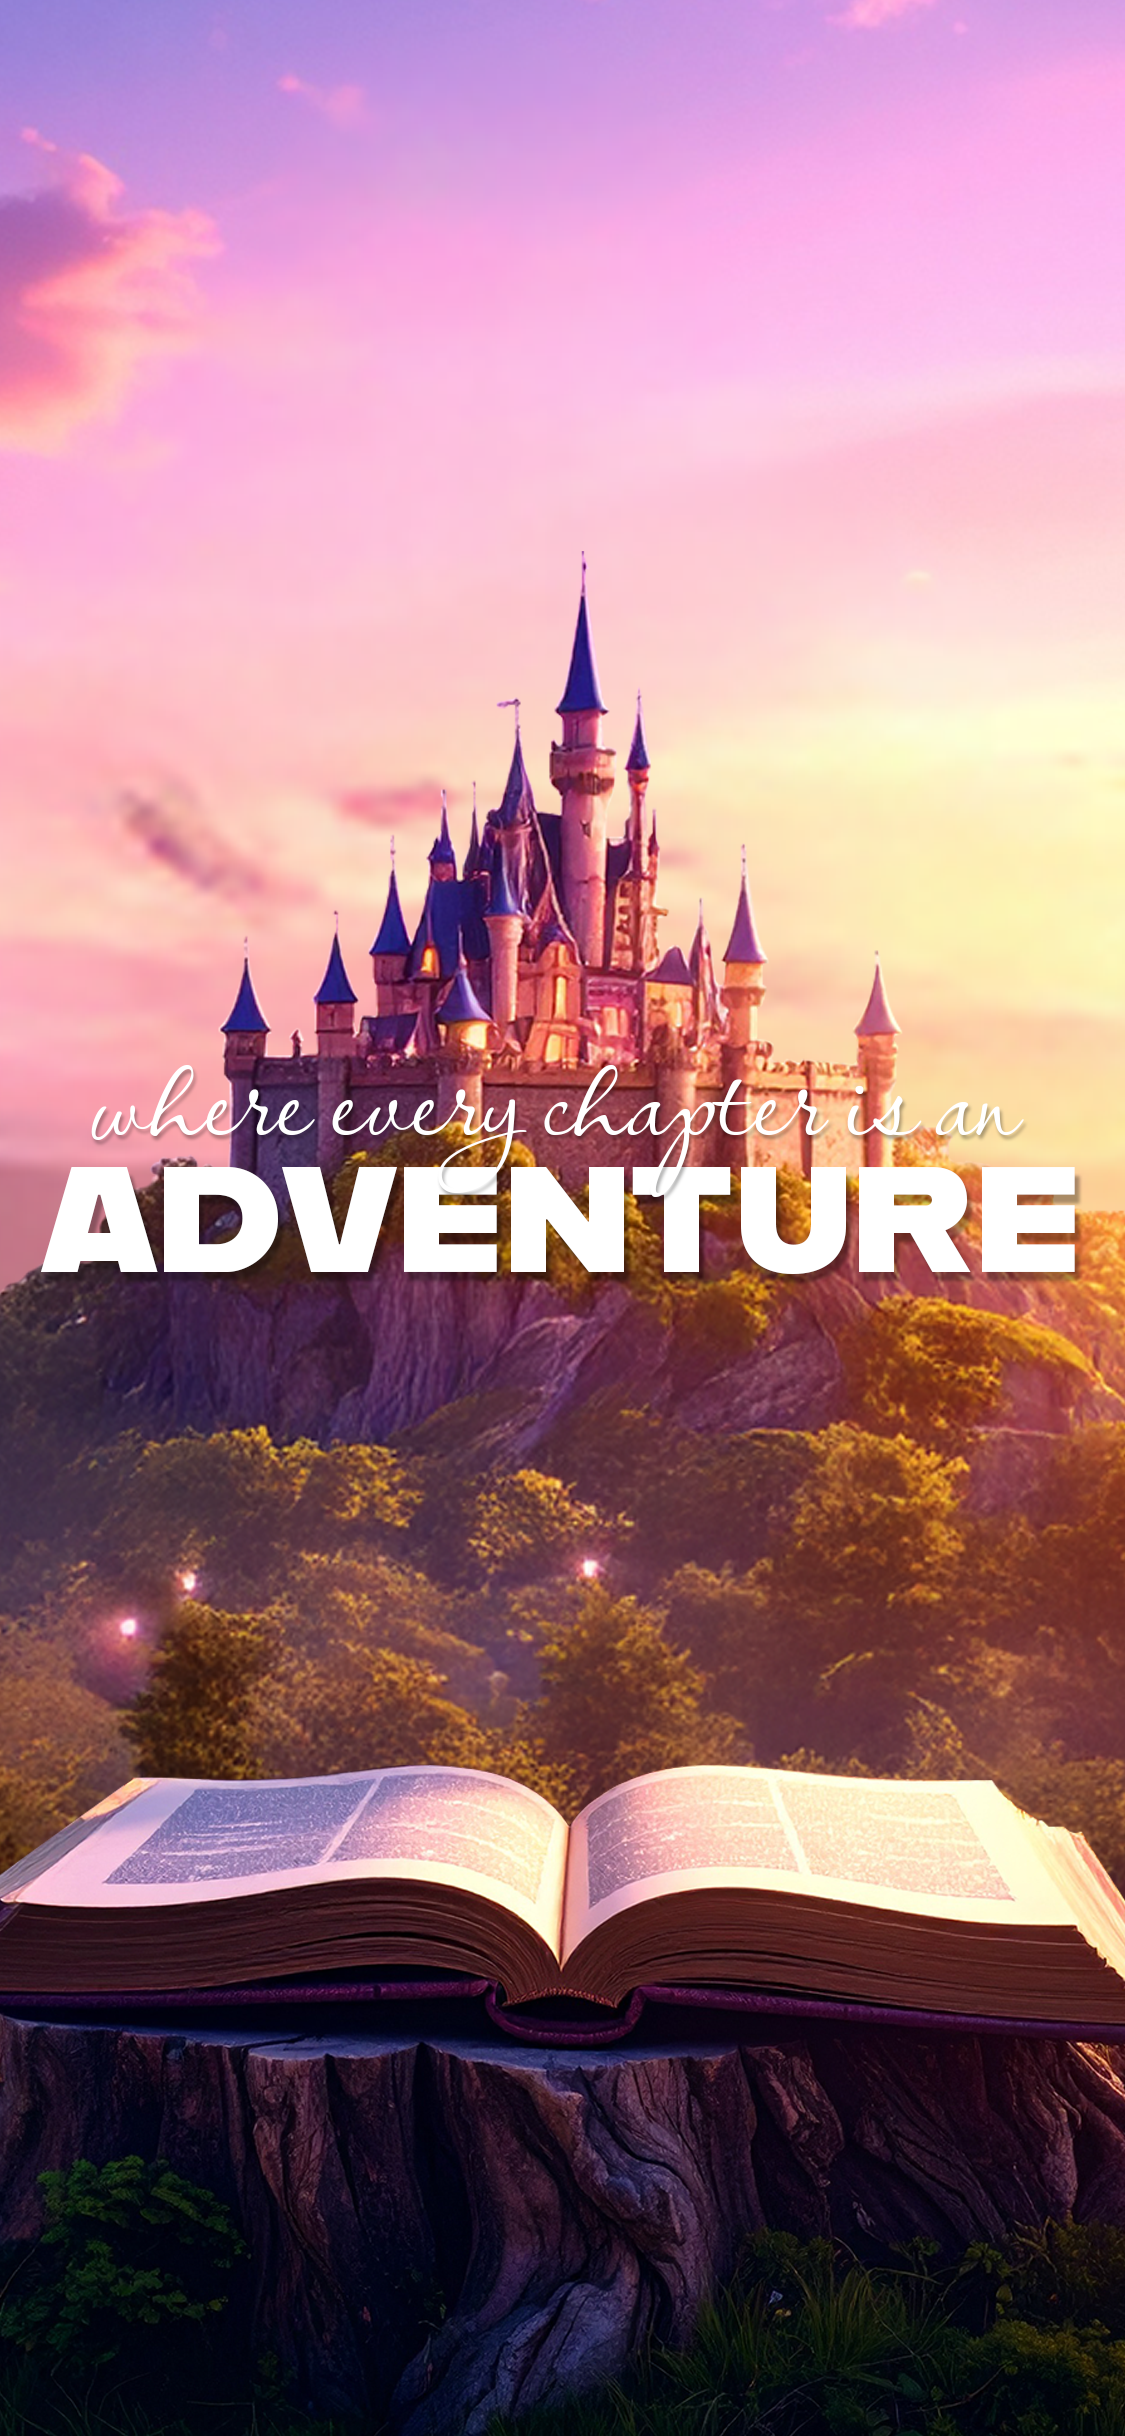
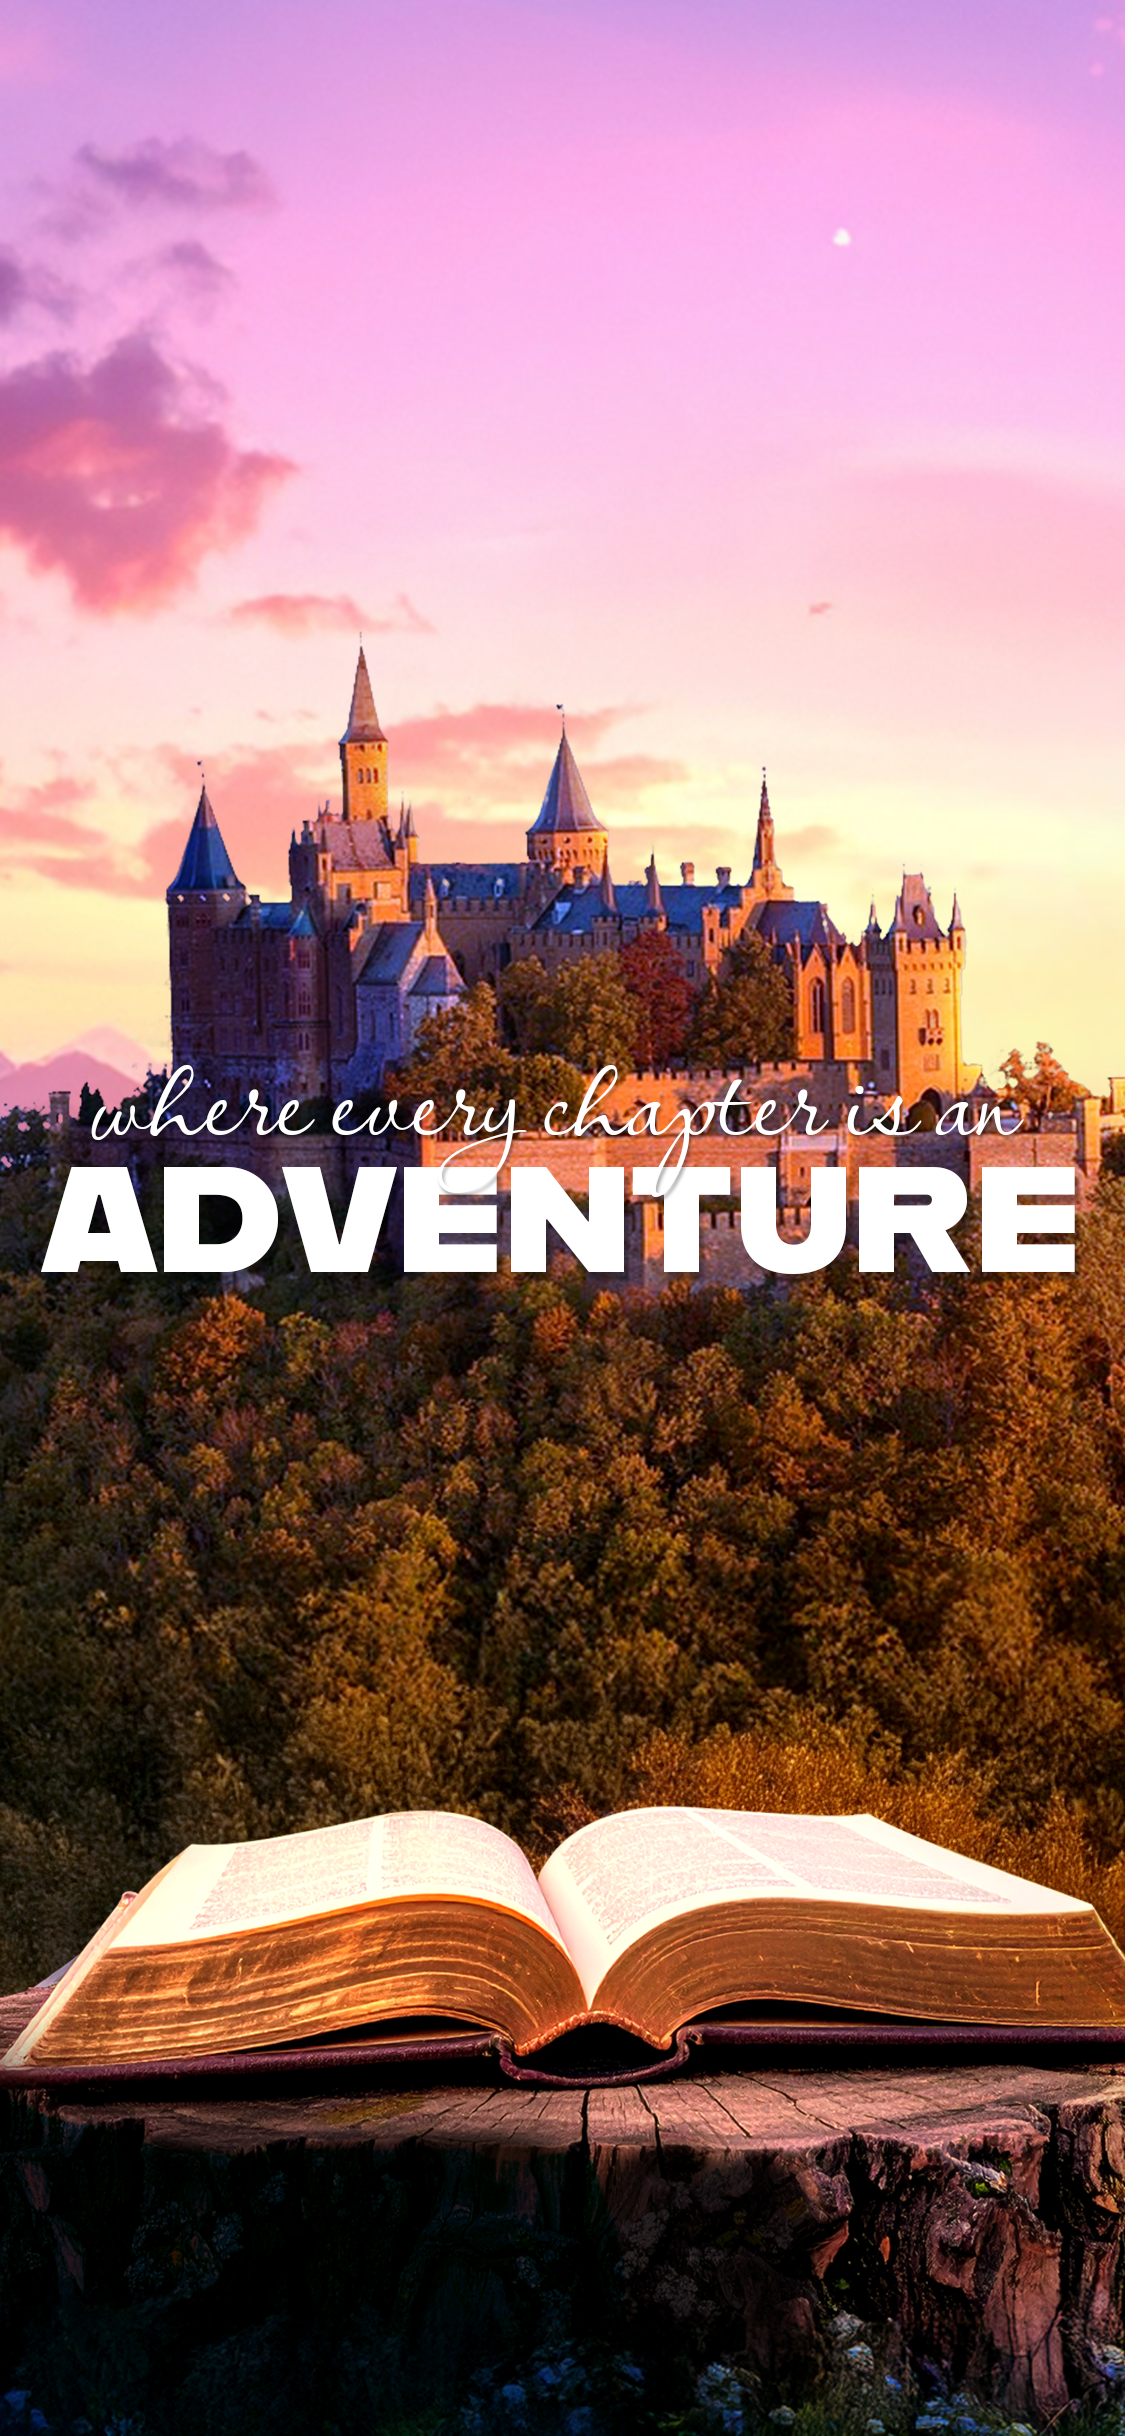
updated the hero images

diff --git a/app/components/Hero.jsx b/app/components/Hero.jsx
@@ -16,8 +16,8 @@ const Hero = () => {
 
   const yBack = useTransform(scrollYProgressTarget1, [0, 1], [-500, 1000]);
   const yMid = useTransform(scrollYProgressTarget1, [0, 1], [-100, 500]);
-  const yfront = useTransform(scrollYProgressTarget1, [0, 1], [500, 100]);
-  const ytext = useTransform(scrollYProgressTarget1, [0, 1], [300, 300]);
+  const yfront = useTransform(scrollYProgressTarget1, [0, 1], [400, 200]);
+  const ytext = useTransform(scrollYProgressTarget1, [0, 1], [150, 400]);
 
   return (
     <div className='relative w-screen h-screen overflow-hidden hidden md:flex'>
@@ -29,7 +29,7 @@ const Hero = () => {
           className={'absolute z-20 w-full h-[120vh]'}
         />
         <ParallaxImage
-          src={'/hero-midground.png'}
+          src={'/hero-mid2.png'}
           alt={'A picture of a castle on a hill'}
           y={yMid}
           className={'absolute z-30 w-full'}
@@ -46,7 +46,7 @@ const Hero = () => {
           </h1>
         </motion.div>
         <ParallaxImage
-          src={'/hero_foreground.png'}
+          src={'/hero-fore2.png'}
           alt={'A book sits on a tree stump overlooking the scenery'}
           y={yfront}
           className={'absolute z-40 w-full'}
